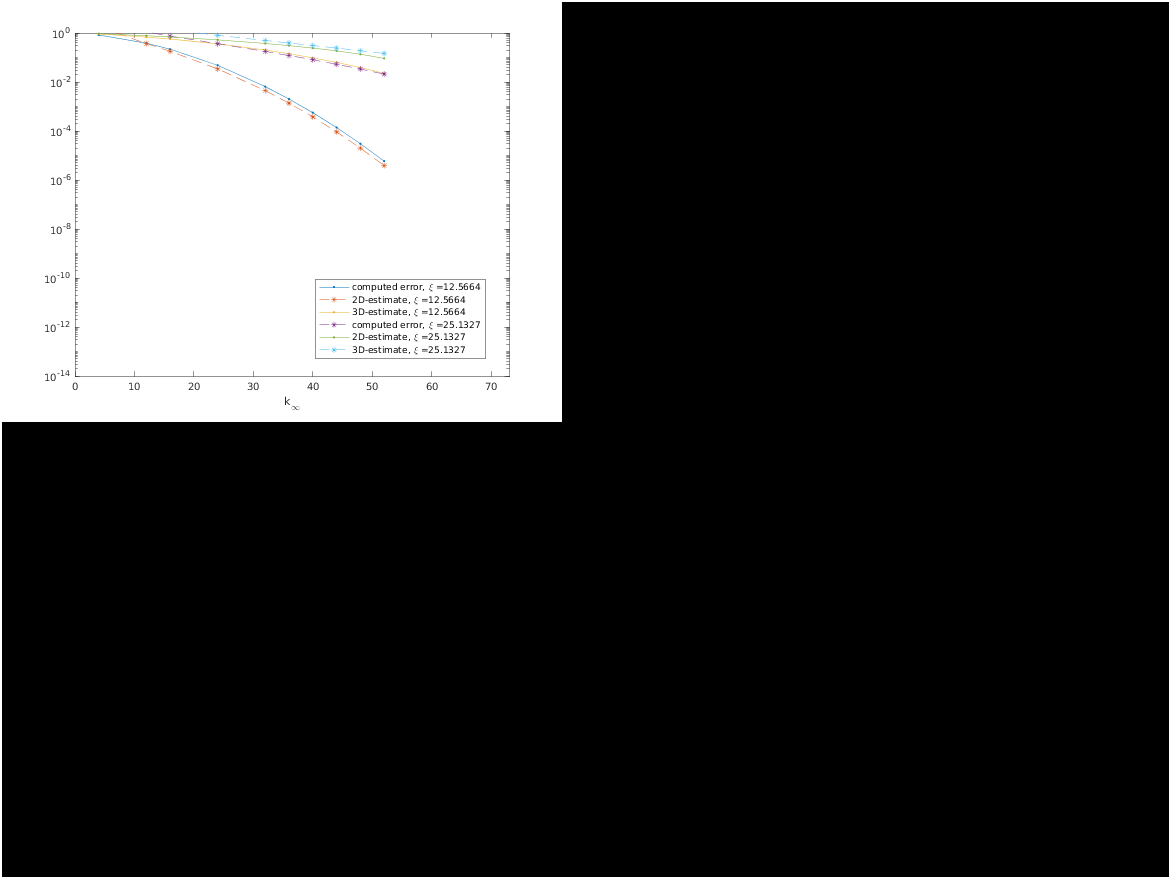
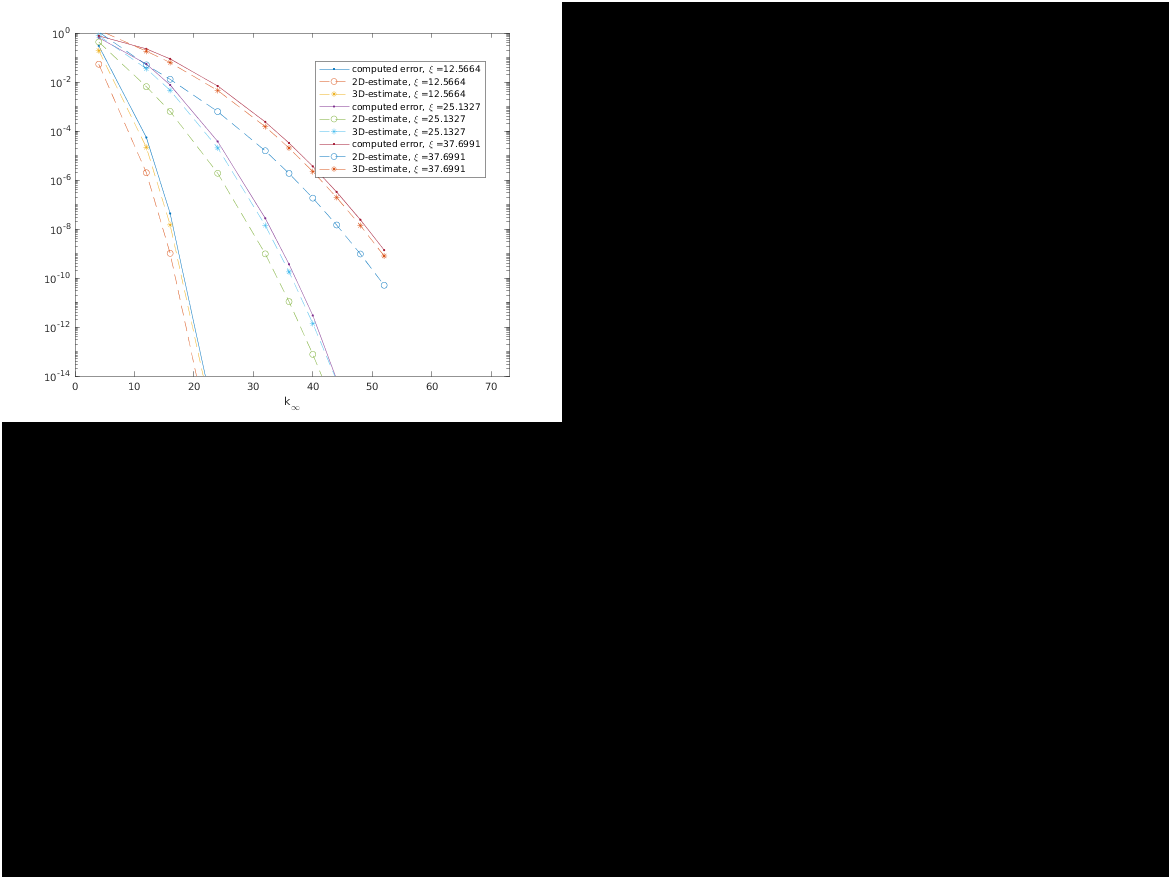
imgs

diff --git a/SE_Stokes_run/SE3P_Stokes/param_select.m b/SE_Stokes_run/SE3P_Stokes/param_select.m
@@ -8,7 +8,7 @@ N = 20; % number of source particles
 
 
 %% Parameter selection
-L = 4; % box side length
+L = 1; % box side length
 box = [L L L]; % periodic box
 opt.box = box;
 
@@ -105,7 +105,7 @@ for xi = xx
     end
     semilogy(MM./2,err,'.-')
     hold on
-    %semilogy(MM./2,ee,'--o')
+    semilogy(MM./2,ee,'--o')
     semilogy(MM./2,eee,'--*')
     str = [str,strcat('computed error, \xi =', num2str(xi))];
     str = [str, strcat('2D-estimate, \xi =', num2str(xi))];
